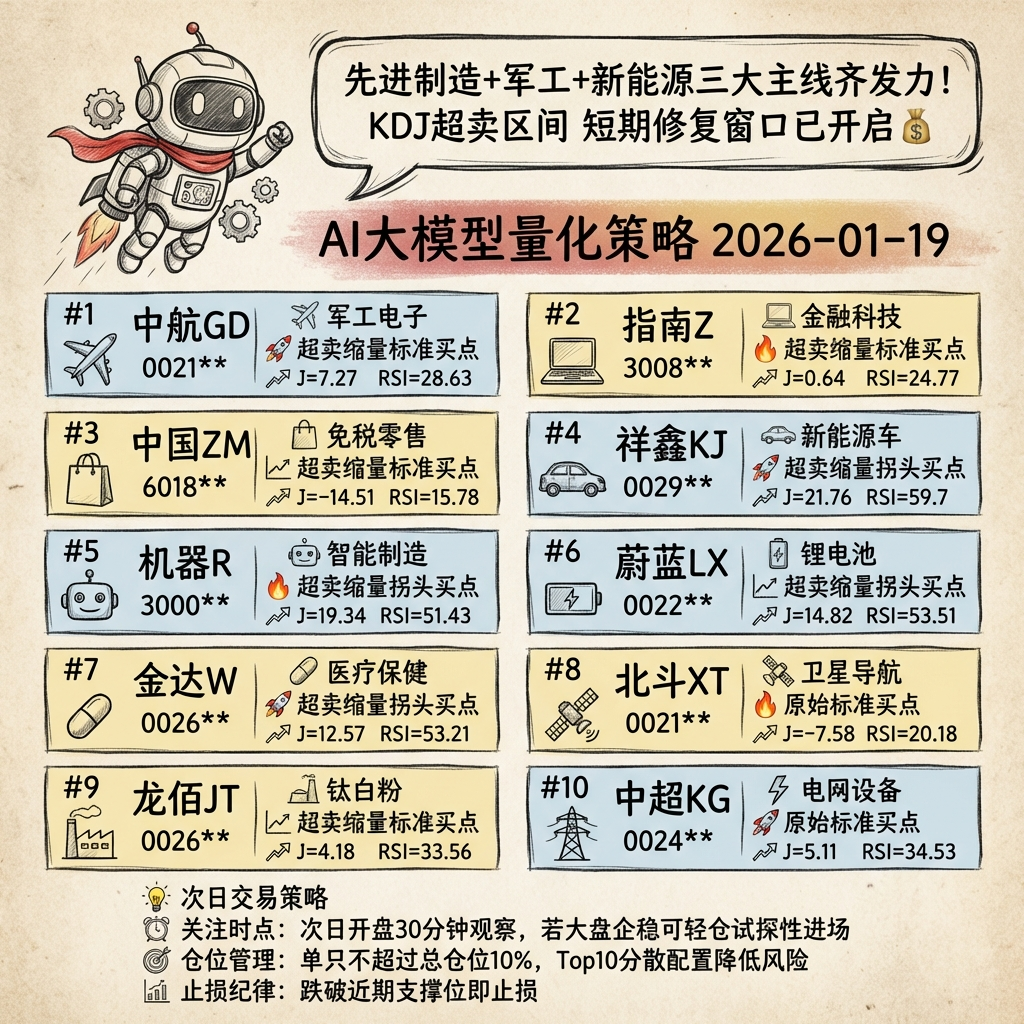
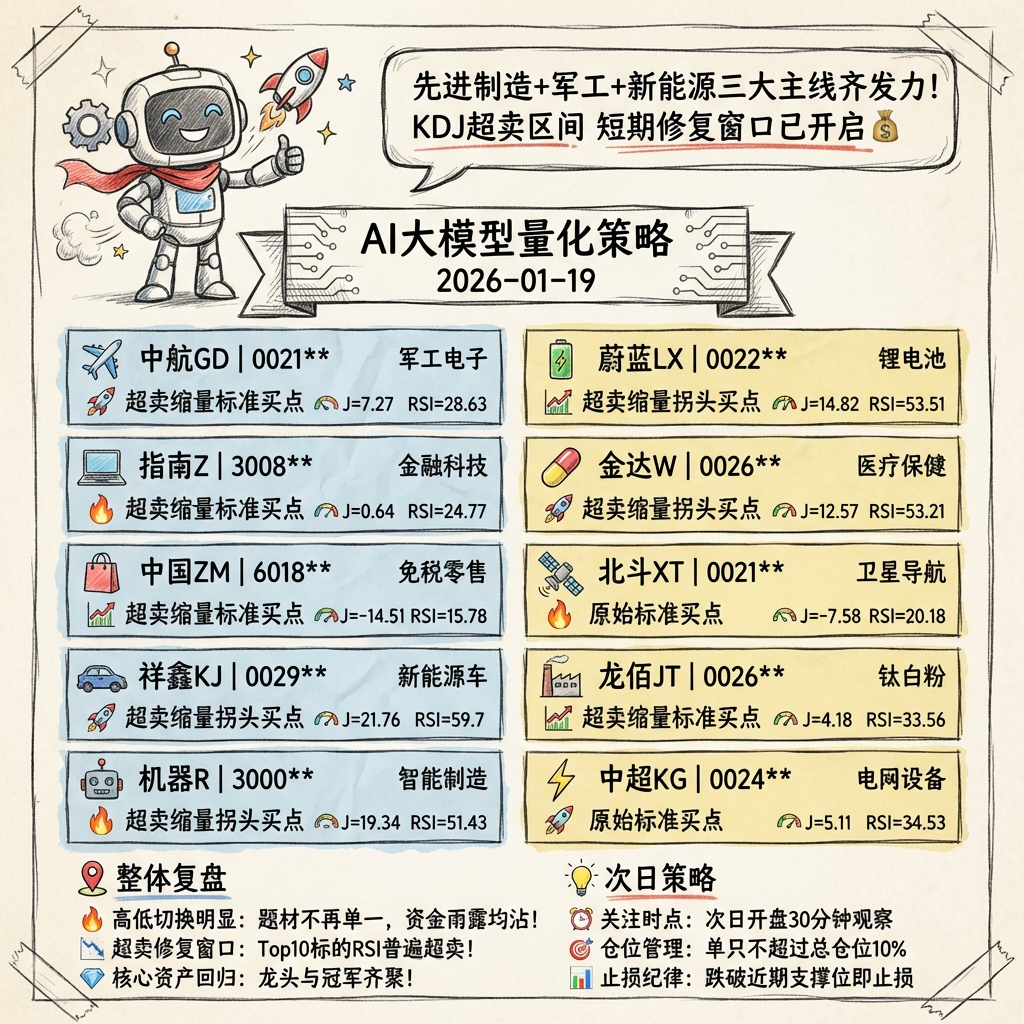
1

diff --git a/run_ai_analysis.py b/run_ai_analysis.py
@@ -63,7 +63,7 @@ def process_single_stock(args):
             'code': code,
             'name': name,
             'market_cap': float(market_cap),
-            'industry': industry,  # 题材/行业
+            'industry': industry if str(industry).lower() != 'nan' else None,  # 题材/行业
             'signal': bool(result.get('signal', False)),
             'signals': result.get('signals', []),
             'K': float(result.get('K', 0)),
@@ -434,15 +434,38 @@ def generate_image_prompt(gemini_analysis, selected_stocks, date_dir):
             # 提取次日交易策略部分
             if '次日交易策略' in content:
                 import re
-                match = re.search(r'💡 次日交易策略\s+(.+?)(?=\n\n|$)', content, re.DOTALL)
+                # 优化正则：匹配到下一个标题符号 (💡 或 ⚠) 之前
+                match = re.search(r'💡 次日交易策略\s+(.+?)(?=\n\s*[⚠]|$)', content, re.DOTALL)
                 if match:
                     tomorrow_strategy = match.group(1).strip()
+            
+            # 提取整体复盘部分
+            if '📍 整体复盘' in content:
+                # 优化正则：匹配到下一个标题符号 (💡) 之前
+                match_review = re.search(r'📍 整体复盘\s+(.+?)(?=\n\s*[💡]|$)', content, re.DOTALL)
+                if match_review:
+                    market_review = match_review.group(1).strip()
+                else:
+                    market_review = "无复盘内容"
+            else:
+                market_review = "无复盘内容"
     
-    prompt = f"""Create a TALL VERTICAL PORTRAIT IMAGE (Aspect Ratio 9:16) HAND-DRAWN SKETCH style stock market infographic poster.
+    # 构建动态 Footer 内容
+    footer_content = ""
+    if market_review and market_review != "无复盘内容":
+        footer_content += f"📍 整体复盘\n{market_review}\n\n"
+    
+    if tomorrow_strategy:
+        footer_content += f"💡 次日策略\n{tomorrow_strategy}"
+
+    prompt = f"""(masterpiece, best quality), (vertical:1.2), (aspect ratio: 9:16), (sketch style), (hand drawn), (infographic)
+
+Create a TALL VERTICAL PORTRAIT IMAGE (Aspect Ratio 9:16) HAND-DRAWN SKETCH style stock market infographic poster.
 
 **CRITICAL: VERTICAL PORTRAIT FORMAT (9:16)**
 - The image MUST be significantly taller than it is wide (Phone wallpaper style).
 - Aspect Ratio: 9:16.
+- Canvas Size: 1080x1920.
 
 **CRITICAL: HAND-DRAWN AESTHETIC**
 - Use ONLY pencil sketch lines, charcoal shading, ink pen strokes
@@ -452,20 +475,19 @@ def generate_image_prompt(gemini_analysis, selected_stocks, date_dir):
 - Shading: crosshatching, stippling, charcoal smudges only
 - Background: Hand-drawn red-gold gradient with visible pencil strokes
 
-**HEADER (Top 25%)**
+
 Left: Robot mascot wearing red scarf, holding gear + rocket, thumbs-up, hand-sketched
 Right: Speech bubble: "先进制造+军工+新能源三大主线齐发力！KDJ超卖区间 短期修复窗口已开启💰"
 Center: "AI大模型量化策略" + "{datetime.now().strftime('%Y-%m-%d')}"
 
-**BODY (Middle 60% - 2-Column Grid)**
-10 stock cards (5 per column):
+10 stock cards (5 per column) in a 2-Column Grid:
 Left column: Pale blue background with paper texture
 Right column: Pale yellow background with paper texture
 
-**DESENSITIZATION RULES (CRITICAL):**
-All cards must use masked names and codes from data below.
+**DESENSITIZATION RULES:**
+All cards must use masked names and codes.
 
-**Stock Cards Data:**
+**CONTENT TO RENDER:**
 {json.dumps(stock_summary, ensure_ascii=False, indent=2, cls=NumpyEncoder)}
 
 For each stock, create card with:
@@ -473,11 +495,12 @@ Line 1: #[index] [name_masked] | [code_masked]
 Line 2: [industry_icon] [industry]
 Line 3: [signal_icon] [signals] | J=[J] RSI=[RSI]
 
-Industry icons: 🔋 batteries, ✈ aerospace, � electronics, 🤖 robotics, 🚗 automotive, 🏭 machinery, 📦 logistics
+Industry icons: 🔋 batteries, ✈ aerospace, 🔌 electronics, 🤖 robotics, 🚗 automotive, 🏭 machinery, 📦 logistics
 Signal icons: Use ONE of 🚀 OR 🔥 OR 📈
 
-**FOOTER (Bottom 15%)**
-""" + (f"� 次日交易策略\n{tomorrow_strategy}" if tomorrow_strategy else "") + """
+
+{footer_content}
+
 
 **ENHANCED HAND-DRAWN STYLE:**
 1. Paper texture visible throughout (sketch paper grain)
@@ -489,11 +512,9 @@ Signal icons: Use ONE of 🚀 OR 🔥 OR 📈
 7. Overall: Professional architect sketch, NOT polished digital
 
 TECHNICAL:
-- Aspect ratio: 10:16 (vertical)
-- Resolution: Min 1080x1728px
+- Aspect ratio: 9:16 (Vertical Phone Wallpaper) - DO NOT USE 16:10
+- Resolution: 1440x2560 (2K Vertical)
 - Chinese text must be clear and readable
-
-
 """
 
     # 保存任务到文件供Agent处理
